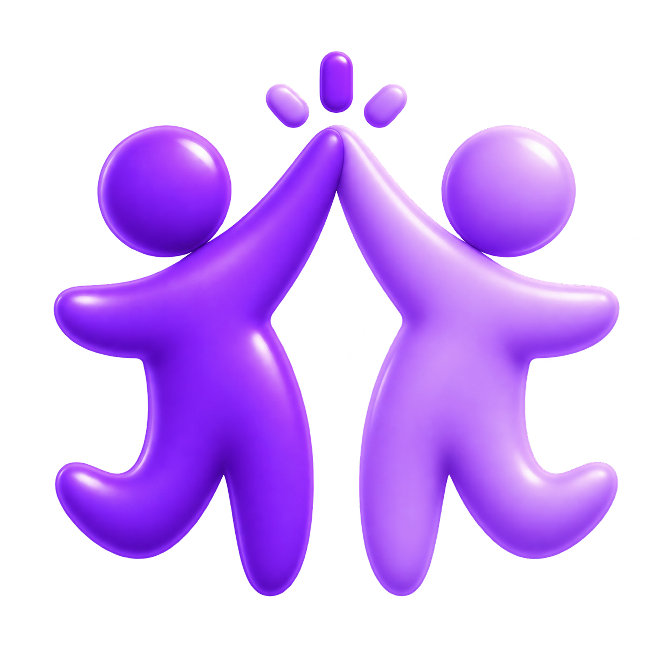
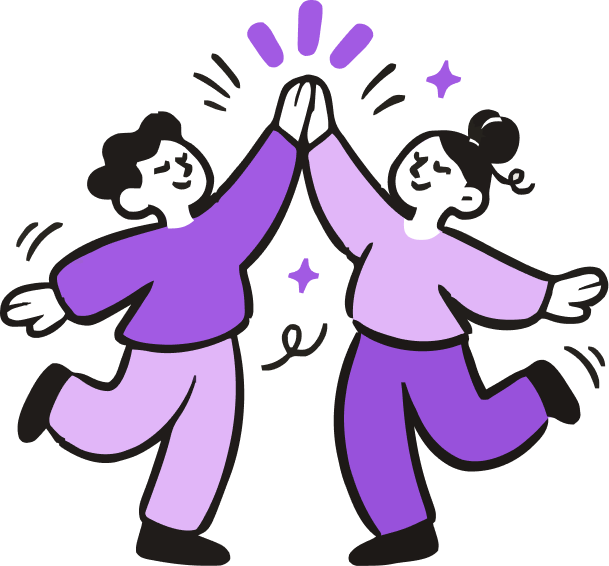
feat(spaces): ilustraciones de pareja y espera para el modo oscuro
InvitePartnerScreen y AwaitingPartnerScreen eligen la variante del tema
activo; ambas se precargan.

diff --git a/src/features/spaces/screens/AwaitingPartnerScreen.tsx b/src/features/spaces/screens/AwaitingPartnerScreen.tsx
@@ -5,6 +5,7 @@ import { Screen } from '@/components/layout/Screen/Screen';
 import { ModalPrimaryAction } from '@/components/overlays/ModalPrimaryAction/ModalPrimaryAction';
 import { Text } from '@/components/ui/Text/Text';
 import { HomeEntrance } from '@/features/dashboard/components/HomeEntrance';
+import { partnerIllustrations } from '@/features/onboarding/utils/preloadOnboardingIllustrations';
 import {
   createJuntossInvitationGateway,
   type OutgoingInvitation,
@@ -14,6 +15,7 @@ import { useAppForeground } from '@/hooks/useAppForeground';
 import { layout } from '@/theme/layout';
 import { radii } from '@/theme/radii';
 import { spacing } from '@/theme/spacing';
+import { useTheme } from '@/theme/useTheme';
 import { useThemedStyles } from '@/theme/useThemedStyles';
 
 const ellipsisDotCounts = [1, 2, 3, 0] as const;
@@ -45,6 +47,7 @@ export function AwaitingPartnerScreen({
   space,
 }: AwaitingPartnerScreenProps) {
   const styles = useThemedStyles(createStyles);
+  const { isDark } = useTheme();
   const [invitation, setInvitation] = useState<OutgoingInvitation | null>(null);
   const [ellipsisFrame, setEllipsisFrame] = useState(0);
   const [isRefreshing, setRefreshing] = useState(false);
@@ -121,7 +124,11 @@ export function AwaitingPartnerScreen({
             <Image
               accessible={false}
               resizeMode="contain"
-              source={require('../../../../assets/Onboarding/Waiting.png')}
+              source={
+                isDark
+                  ? partnerIllustrations.waiting.dark
+                  : partnerIllustrations.waiting.light
+              }
               style={styles.waitingIllustration}
               testID="awaiting-partner-illustration"
             />

diff --git a/src/features/onboarding/utils/preloadOnboardingIllustrations.ts b/src/features/onboarding/utils/preloadOnboardingIllustrations.ts
@@ -9,6 +9,21 @@ import { Image } from 'react-native';
 export const nameScreenIllustration: number = require('../../../../assets/Onboarding/1_Hola.png');
 
 /**
+ * Ilustraciones de invitación a pareja con su versión para el modo oscuro.
+ * La pantalla elige la del tema activo (`useTheme().isDark`).
+ */
+export const partnerIllustrations = {
+  happyCouple: {
+    light: require('../../../../assets/Onboarding/Happy_Couple.png') as number,
+    dark: require('../../../../assets/Onboarding/Happy_Couple_Dark.png') as number,
+  },
+  waiting: {
+    light: require('../../../../assets/Onboarding/Waiting.png') as number,
+    dark: require('../../../../assets/Onboarding/Waiting_Dark.png') as number,
+  },
+};
+
+/**
  * Resto de ilustraciones principales (onboarding, acceso e invitaciones a
  * pareja), en el orden en que aparecen en el flujo. Se precargan de una en
  * una mientras el usuario escribe su nombre, así cada lámina siguiente
@@ -23,8 +38,11 @@ export const deferredIllustrations: number[] = [
   require('../../../../assets/Onboarding/8_Gastos.png'),
   require('../../../../assets/Onboarding/9_Abrazo.png'),
   require('../../../../assets/Onboarding/10_loginicon.png'),
-  require('../../../../assets/Onboarding/Happy_Couple.png'),
-  require('../../../../assets/Onboarding/Waiting.png'),
+  // Las dos variantes: el tema puede cambiar mientras la app está abierta.
+  partnerIllustrations.happyCouple.light,
+  partnerIllustrations.happyCouple.dark,
+  partnerIllustrations.waiting.light,
+  partnerIllustrations.waiting.dark,
 ];
 
 /** Todas las ilustraciones, listadas de forma centralizada. */

diff --git a/src/features/spaces/screens/AwaitingPartnerScreen.test.tsx b/src/features/spaces/screens/AwaitingPartnerScreen.test.tsx
@@ -1,3 +1,4 @@
+import { partnerIllustrations } from '@/features/onboarding/utils/preloadOnboardingIllustrations';
 import type { ComponentProps } from 'react';
 import { fireEvent, render, waitFor } from '@testing-library/react-native';
 import { Alert } from 'react-native';
@@ -35,6 +36,7 @@ function mockOutgoingInvitation(
 
 async function renderScreen(
   overrides: Partial<ComponentProps<typeof AwaitingPartnerScreen>> = {},
+  appearance: 'light' | 'dark' = 'light',
 ) {
   const props = {
     onCancelInvitation: jest.fn(async () => undefined),
@@ -53,7 +55,7 @@ async function renderScreen(
           insets: { top: 47, right: 0, bottom: 34, left: 0 },
         }}
       >
-        <ThemeProvider>
+        <ThemeProvider initialAppearance={appearance}>
           <AwaitingPartnerScreen {...props} />
         </ThemeProvider>
       </SafeAreaProvider>,
@@ -66,6 +68,20 @@ describe('AwaitingPartnerScreen', () => {
     jest.clearAllMocks();
     mockOutgoingInvitation(null);
   });
+
+  it.each([
+    ['light', partnerIllustrations.waiting.light],
+    ['dark', partnerIllustrations.waiting.dark],
+  ] as const)(
+    'usa la ilustración de espera del tema %s',
+    async (appearance, illustration) => {
+      const { screen } = await renderScreen({}, appearance);
+
+      expect(
+        screen.getByTestId('awaiting-partner-illustration').props.source,
+      ).toBe(illustration);
+    },
+  );
 
   it('nombra a quien fue invitado y le pide que abra su app de Juntos', async () => {
     mockOutgoingInvitation({

diff --git a/src/features/spaces/screens/InvitePartnerScreen.tsx b/src/features/spaces/screens/InvitePartnerScreen.tsx
@@ -7,6 +7,7 @@ import { Text } from '@/components/ui/Text/Text';
 import { AuthTextField } from '@/features/auth/screens/components/AuthTextField';
 import { isValidEmail } from '@/features/auth/utils/authValidation';
 import { HomeEntrance } from '@/features/dashboard/components/HomeEntrance';
+import { partnerIllustrations } from '@/features/onboarding/utils/preloadOnboardingIllustrations';
 import {
   CreateInvitationError,
   createJuntossInvitationGateway,
@@ -44,7 +45,7 @@ export function InvitePartnerScreen({
   onCreateCoupleSpaceInvitation,
   onOpenCountrySettings,
 }: InvitePartnerScreenProps) {
-  const { colors } = useTheme();
+  const { colors, isDark } = useTheme();
   const styles = useThemedStyles(createStyles);
   const [email, setEmail] = useState('');
   const [emailError, setEmailError] = useState<string | null>(null);
@@ -109,7 +110,11 @@ export function InvitePartnerScreen({
             <Image
               accessible={false}
               resizeMode="contain"
-              source={require('../../../../assets/Onboarding/Happy_Couple.png')}
+              source={
+                isDark
+                  ? partnerIllustrations.happyCouple.dark
+                  : partnerIllustrations.happyCouple.light
+              }
               style={styles.coupleIllustration}
               testID="invite-partner-couple-illustration"
             />

diff --git a/src/features/spaces/screens/InvitePartnerScreen.test.tsx b/src/features/spaces/screens/InvitePartnerScreen.test.tsx
@@ -1,3 +1,4 @@
+import { partnerIllustrations } from '@/features/onboarding/utils/preloadOnboardingIllustrations';
 import AsyncStorage from '@react-native-async-storage/async-storage';
 import { fireEvent, waitFor } from '@testing-library/react-native';
 
@@ -53,6 +54,27 @@ describe('InvitePartnerScreen', () => {
     jest.clearAllMocks();
     await AsyncStorage.clear();
   });
+
+  it.each([
+    ['light', partnerIllustrations.happyCouple.light],
+    ['dark', partnerIllustrations.happyCouple.dark],
+  ] as const)(
+    'usa la ilustración de pareja del tema %s',
+    async (appearance, illustration) => {
+      const screen = await renderWithTheme(
+        <InvitePartnerScreen
+          coupleSpace={null}
+          onFinished={jest.fn()}
+          onCreateCoupleSpaceInvitation={jest.fn()}
+        />,
+        { appearance },
+      );
+
+      expect(
+        screen.getByTestId('invite-partner-couple-illustration').props.source,
+      ).toBe(illustration);
+    },
+  );
 
   it('abre directamente el formulario para enviar una invitación', async () => {
     const onCreate = jest.fn().mockResolvedValue(coupleSpace);

diff --git a/src/features/onboarding/utils/preloadOnboardingIllustrations.test.ts b/src/features/onboarding/utils/preloadOnboardingIllustrations.test.ts
@@ -55,6 +55,13 @@ describe('preloadAppIllustrations', () => {
     expect(appIllustrations).toContain(
       require('../../../../assets/Onboarding/10_loginicon.png'),
     );
+    // Las dos variantes de tema, para que cambiar de tema no espere a disco.
+    expect(appIllustrations).toContain(
+      require('../../../../assets/Onboarding/Happy_Couple_Dark.png'),
+    );
+    expect(appIllustrations).toContain(
+      require('../../../../assets/Onboarding/Waiting_Dark.png'),
+    );
     expect(prefetchSpy).toHaveBeenCalledTimes(appIllustrations.length);
 
     prefetchSpy.mockRestore();
